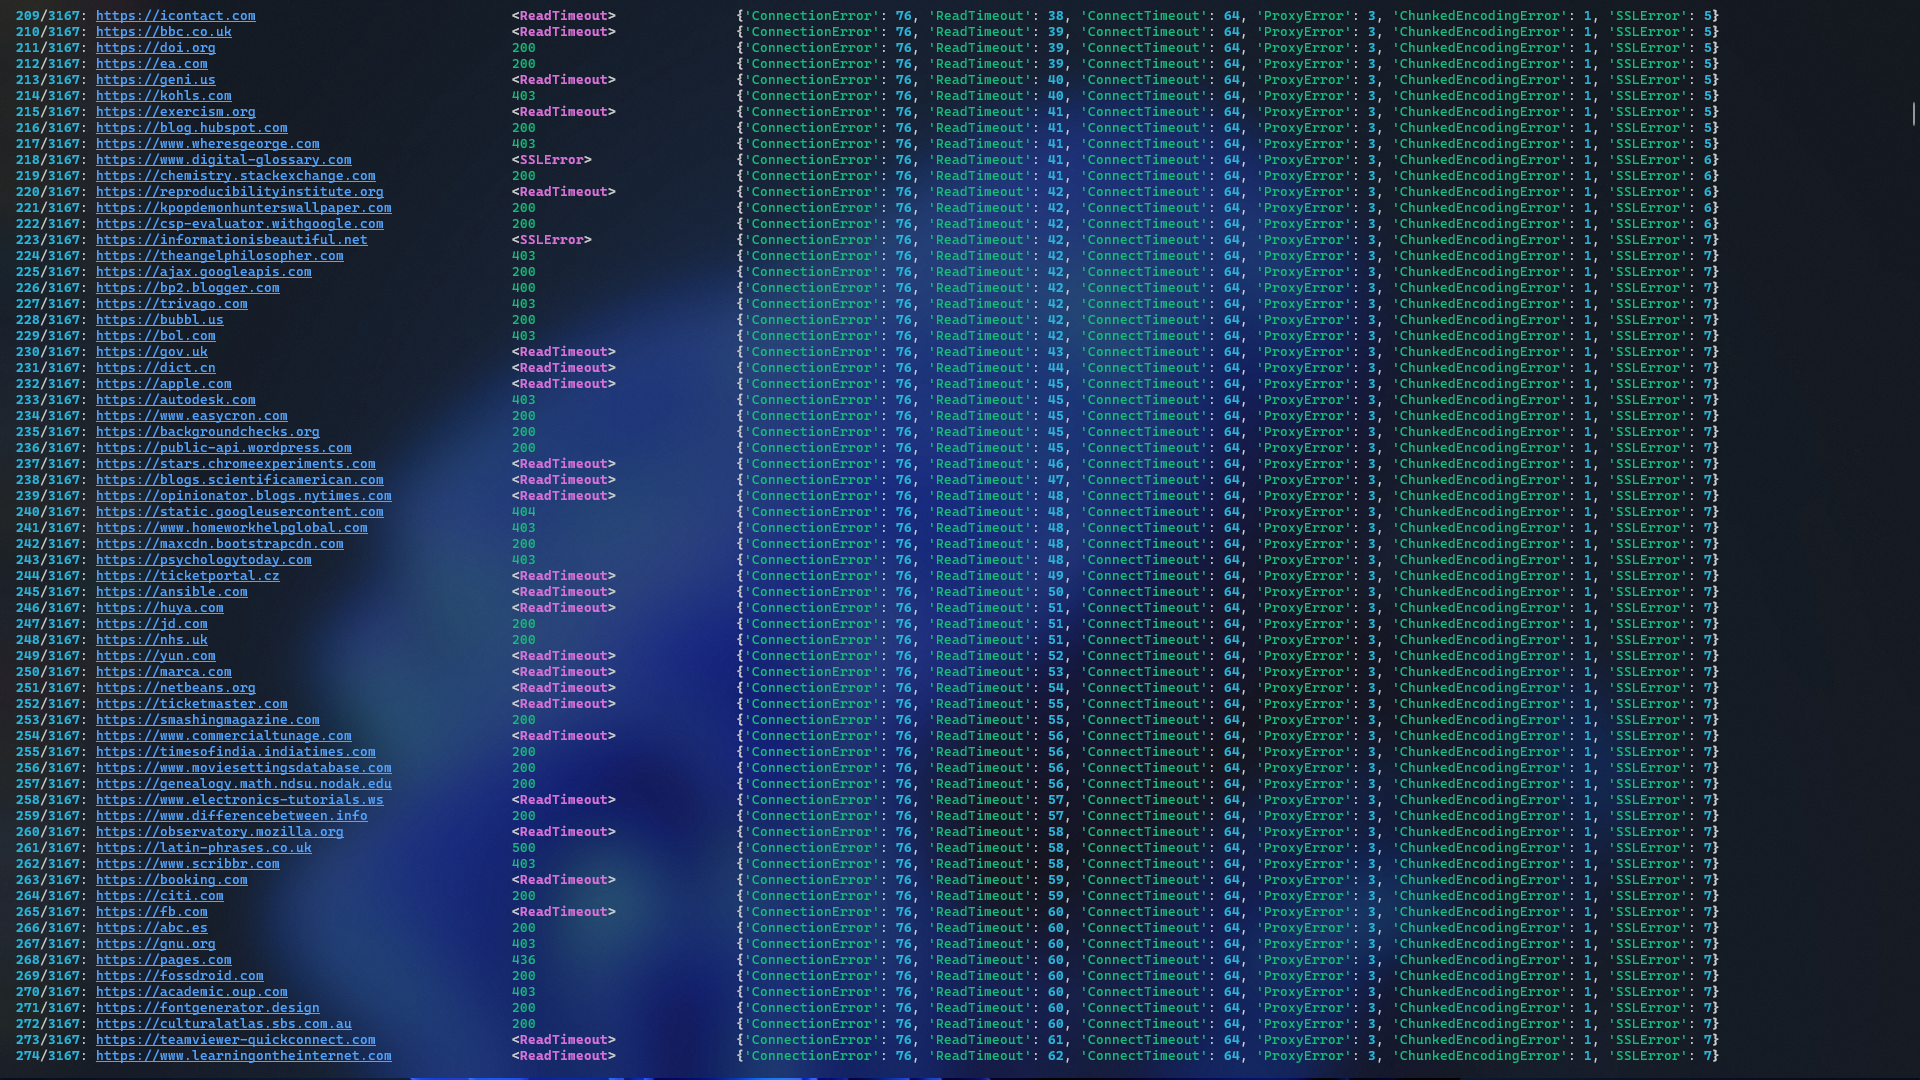
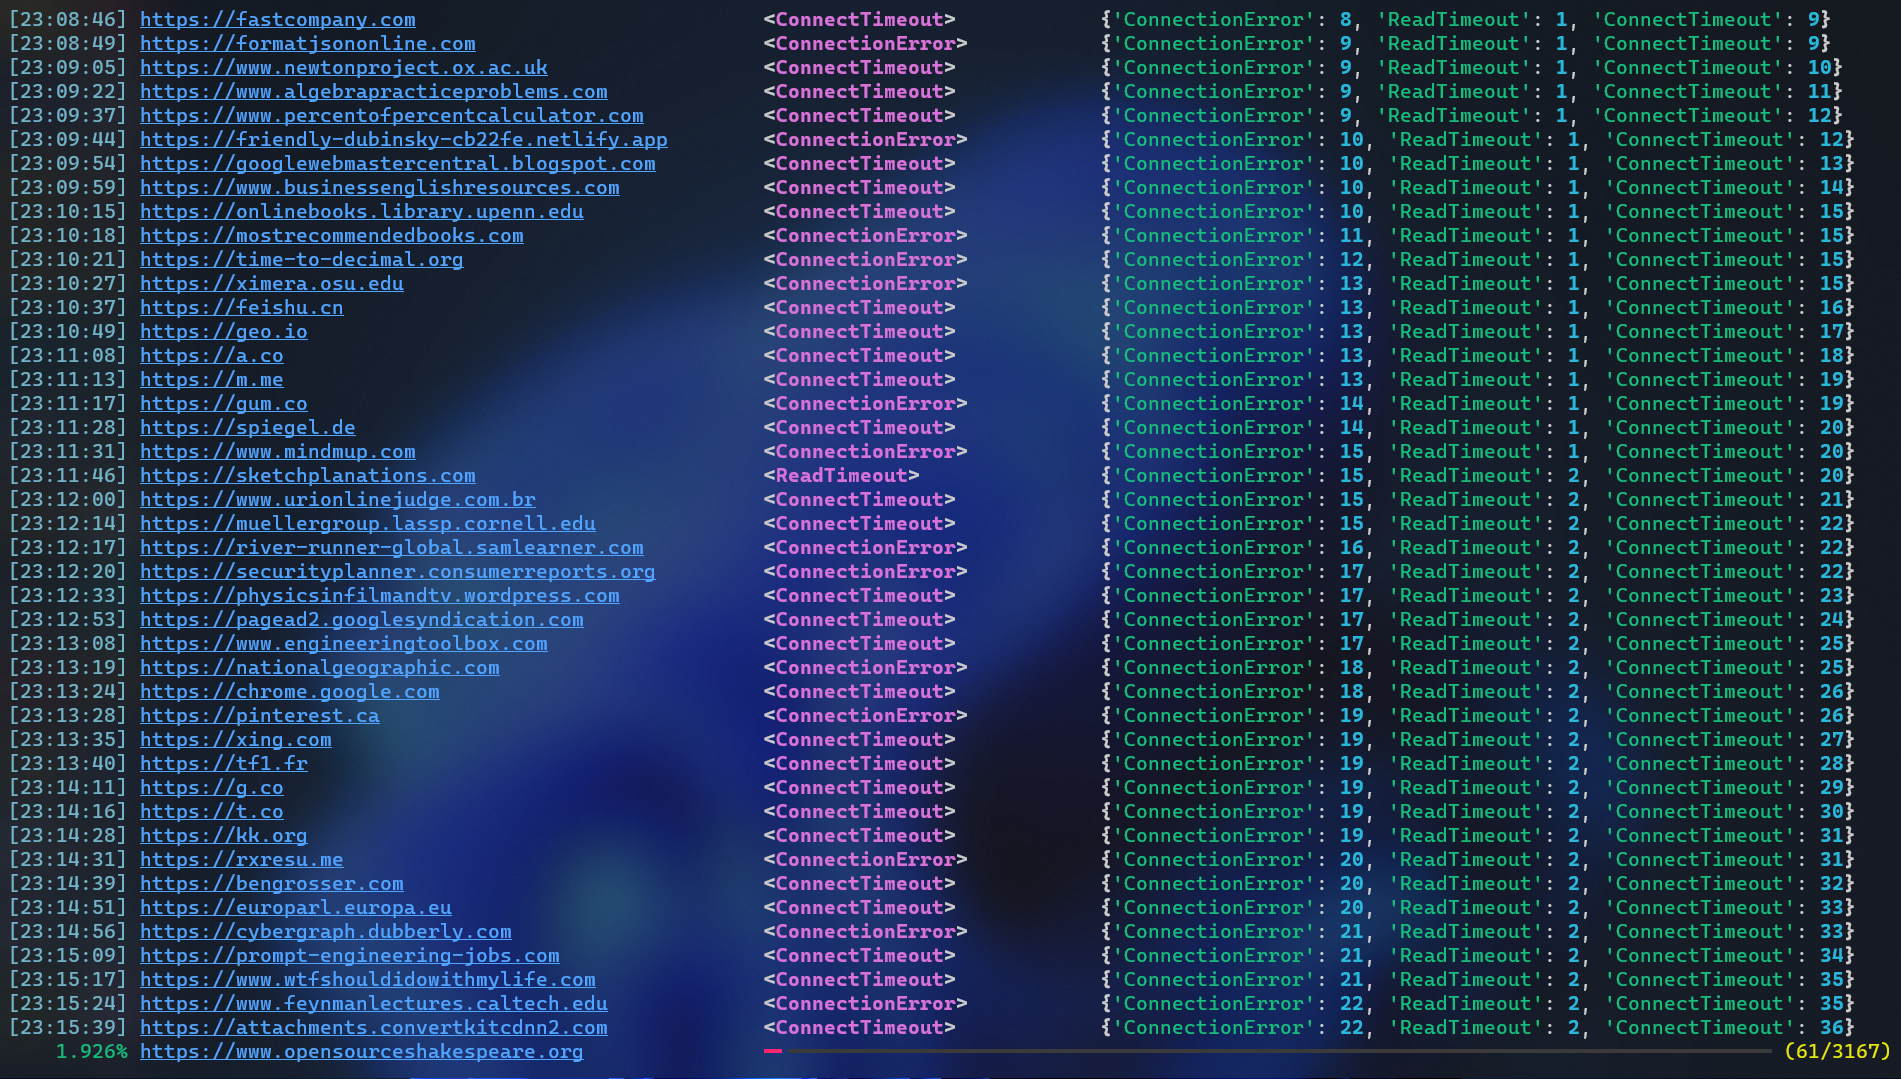
Update README and URLBrute: enhance documentation, add command-line argument support, and also progress tracking

diff --git a/URLBrute.py b/URLBrute.py
@@ -1,15 +1,22 @@
 from rich_argparse_plus import RichHelpFormatterPlus
+from rich.progress import Progress, BarColumn
 from typing import Iterable, TypeAlias
 from argparse import ArgumentParser
 import requests, warnings, logging
-from rich.console import Console
+from rich import get_console
 from pathlib import Path
 
-console = Console()
+console = get_console()
 logger = logging.getLogger()
 FILEDIR = Path(__file__).parent
 Result: TypeAlias = requests.Response | BaseException
 logging.basicConfig(filename=FILEDIR / ".log", level=0)
+
+parser = ArgumentParser(allow_abbrev=True, formatter_class=RichHelpFormatterPlus)
+style_modify = {"argparse.metavar": "yellow", "argparse.prog": "bold green"}
+parser.add_argument("--output", default=FILEDIR / "results.txt")
+parser.add_argument("--input", default=FILEDIR / "domains.txt")
+RichHelpFormatterPlus.styles.update(style_modify)
 
 
 class Address(str):
@@ -46,60 +53,80 @@ class Address(str):
 
 
 class Reacheck:
-    def __init__(self, addresses: list[str]):
+    def __init__(self, addresses: list[str], timeout=5.0):
         self.addresses = list(map(Address, addresses))
-        self.timeout = 5
+        self.timeout = timeout
         self.errors = {}
         self.reachable = set()
 
-        maxurllen = max(map(len, self.addresses))
-        counterlen = len(str(len(addresses)))
-        raw = "{:>%i}/%i: {:<%i}  ..."
-        self.pg_template = raw % (counterlen, len(addresses), maxurllen)
-
     def reachout(self):
-        for i, addr in enumerate(self.addresses, 1):
-            self.pre_get(i, addr)
-            result = addr.get(timeout=self.timeout)
-            do_continue = self.post_get(result)
-            if do_continue is False:
-                break
+        self._init_progress()
+        with self.progress:
+            for i, addr in enumerate(self.addresses, 1):
+                self.pre_get(i, addr)
+                result = addr.get(timeout=self.timeout)
+                do_continue = self.post_get(addr, result)
+                if do_continue is False:
+                    break
 
-    def _update_success(self, response: requests.Response):
-        console.print(f"[repr.str]{response.status_code}".ljust(37), end=" ")
-        self.reachable.add(response.url)
-        logger.info(response)
+    def _init_progress(self):
+        timeformat = console._log_render.time_format
+        console._log_render.omit_repeated_times = False
+        console._log_render.show_path = False
+        dt = console.get_datetime()
+        timesample = timeformat(dt) if callable(timeformat) else dt.strftime(timeformat)
+        margin = len(timesample)
+        self._r_url = max(map(len, self.addresses))
+        self._r_ext = 18  # extra space for markup, use [/] + spaces to fill
+        fraction = "[yellow]({task.completed}/{task.total})"
+        percentage = "[green]{task.percentage:>%i.3f}%%" % (margin - 1)
+        description = "{task.description:<%i}" % (self._r_url + self._r_ext)
+        self.progress = Progress(
+            percentage,
+            description,
+            BarColumn(89),
+            fraction,
+            console=console,
+            auto_refresh=False,
+        )
+        self.task = self.progress.add_task("Progress:", total=len(self.addresses))
 
-    def _update_failure(self, err: BaseException):
-        key = type(err).__name__
-        console.print(f"<{key}>".ljust(27), end=" ")
-        self.errors[key] = self.errors.get(key, 0) + 1
-        logger.error(err)
+    def pre_get(self, i: int, address: Address):
+        desc = "[repr.url]" + address.url + "[reset]"
+        self.progress.update(self.task, description=desc, completed=i, refresh=True)
 
-    def post_get(self, result: Result):
+    def post_get(self, address: Address, result: Result):
         """handles the result, the corresponding output,
         and returns whether the user wants to continue"""
 
-        # NOTE: we're not using the console
-        # here as it doesn't respond to "\b"
-        print("\b" * 3, end="")
-
         if isinstance(result, KeyboardInterrupt):
-            confirm = console.input("wanna continue?: ")
-            if confirm.lower() in "nq":
-                return False
+            self.progress.stop()
+            do_quit = console.input("do you REALLY wanna quit?: ")
+            if do_quit in "nN":
+                self.progress.start()  # (re-start)
+                return True
+            console.print("ok sure. just one last thing:...")
+            do_save = console.input("do you wanna update the results so far?: ")
+            if do_save not in "nN":
+                # we're not going to mess with the actual input/output files here
+                # TODO: resolve the issue above, preferably in Self.save_results itself
+                self.save_results(parser.get_default("output"))
+                console.print("done")
+            return False
         elif isinstance(result, BaseException):
-            self._update_failure(result)
+            key = type(result).__name__
+            self.errors[key] = self.errors.get(key, 0) + 1
+            logger.error(result)
+            out = f"<{key}>"
         else:
-            self._update_success(result)
-        console.print(self.errors)
+            self.reachable.add(result.url)
+            logger.info(result)
+            out = result.status_code
+
+        console.log(f"{address.url:<{self._r_url}}  {out:<27} {self.errors}")
         return True
 
-    def pre_get(self, i: int, address: Address):
-        console.print(self.pg_template.format(i, address.url), end="")
-        # TODO: progress bar
-
-    def _update_file(self, filename: str, content: Iterable, remove=False):
+    def _update_file(self, filename: str | Path, content: Iterable, remove=False):
         path = Path(filename)
         path.touch()
         with path.open("r+") as file:
@@ -115,12 +142,6 @@ class Reacheck:
         if tested_file:
             self._update_file(tested_file, self.reachable, True)
 
-
-style_modify = {"argparse.metavar": "yellow", "argparse.prog": "bold green"}
-RichHelpFormatterPlus.styles.update(style_modify)
-parser = ArgumentParser(allow_abbrev=True, formatter_class=RichHelpFormatterPlus)
-parser.add_argument("--input", default=FILEDIR / "domains.txt")
-parser.add_argument("--output", default=FILEDIR / "results.txt")
 
 if __name__ == "__main__":
     args = parser.parse_args()

diff --git a/README.md b/README.md
@@ -6,6 +6,9 @@ This repo is a tracked log of the scripts I write for myself, due to regional ne
 
 A Python utility for batch checking the reachability of URLs.
 ![URLBrute screenshot](images/screenshot.png)
+***About the image:** You've definitely noticed that not a single request has even been reached at all, let alone repsponding (un)successfully. This is not an intentional modified/made-up result and has nothing to do with this repo, but displays how we're struggling to survive and get our genuinely basic human rights back, only because of the region we're born in, or somehow got stuckked afterwards. See [this quick preview](https://github.com/arash-aryapour/iran-internet-shutdown-2025-analysis#-quick-preview).*
+
+*To see a preview of some successful responses, see [this image from an older version](<images/screenshot (old).png>)*
 
 ### Overview
 
@@ -35,16 +38,9 @@ github.com
 - Request timeout (5 seconds default)
 - Logging of all requests and errors
 
-### Requirements
-
-```
-requests
-rich
-```
-
 ### Output
 
-- Successfully reachable URLs are collected in `checker.reachable` (this is supposed to be used in domains' uniqueness handling, later)
+- Successfully reachable URLs are collected in `checker.reachable` and finally (and/or after a keyboard interrupt) to a pre-specified file. (if not set, falls back to a default path)
 - Results are immediately logged to `.log` file (for restorability, in case of any interruptions)
 - Status codes and error types displayed in console
 
